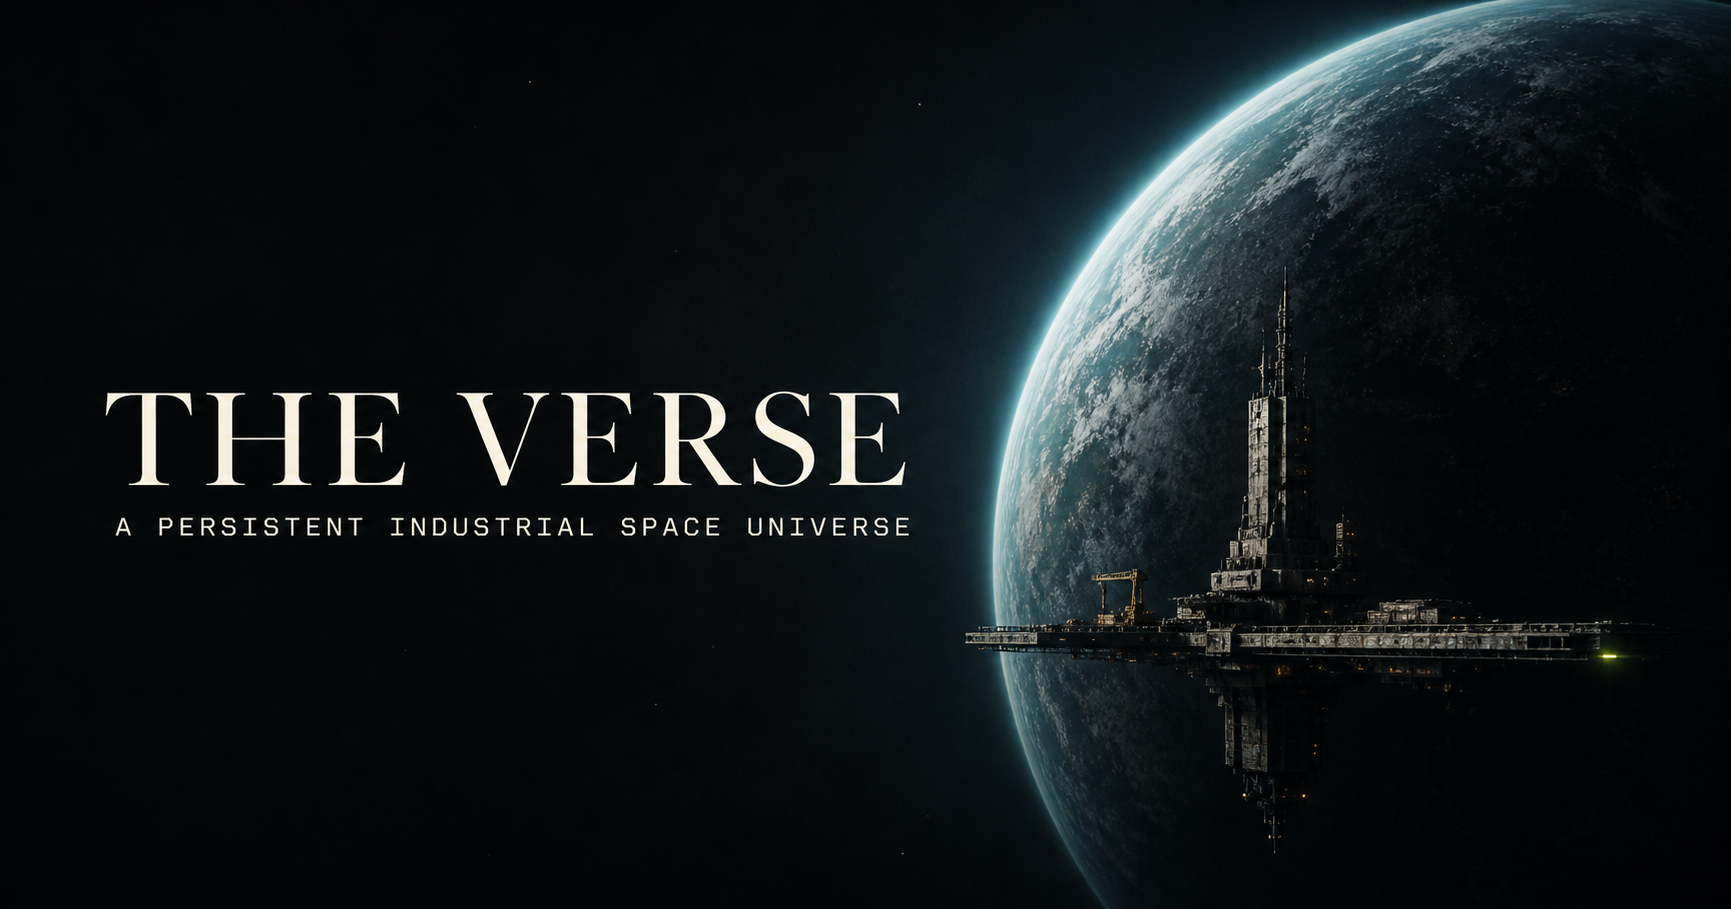
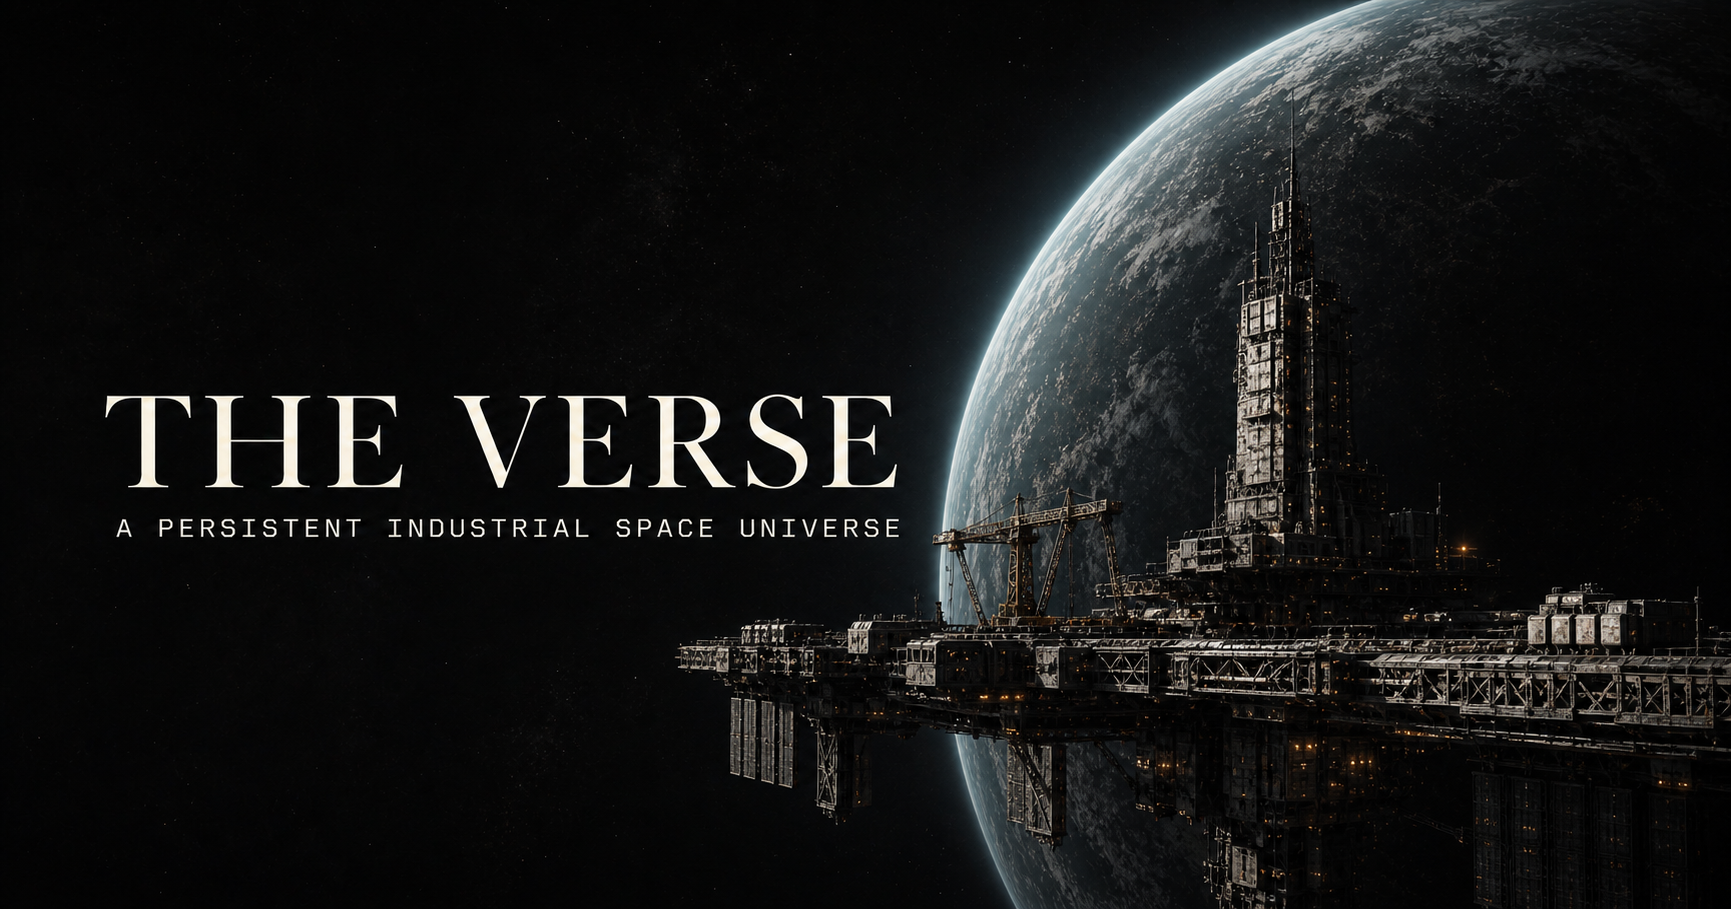
Refine The Verse industrial art direction

diff --git a/app/globals.css b/app/globals.css
@@ -1,15 +1,15 @@
 @import 'tailwindcss';
 
 :root {
-  --ink: #080a09;
-  --ink-soft: #0d1110;
-  --paper: #e7e5dc;
-  --paper-deep: #d8d5c9;
-  --muted: #9d9d94;
-  --line: rgba(231, 229, 220, 0.16);
-  --dark-line: rgba(8, 10, 9, 0.2);
-  --acid: #d6ff55;
-  --cyan: #87fff1;
+  --ink: #090909;
+  --ink-soft: #11100f;
+  --paper: #ddd7ca;
+  --paper-deep: #cac1b1;
+  --muted: #aaa397;
+  --line: rgba(221, 215, 202, 0.17);
+  --dark-line: rgba(9, 9, 9, 0.22);
+  --acid: #c98043;
+  --cyan: #8fa5a8;
 }
 
 * { box-sizing: border-box; }
@@ -53,7 +53,7 @@ button, a { -webkit-tap-highlight-color: transparent; }
   height: 33px;
   flex: 0 0 33px;
   place-items: center;
-  border: 1px solid rgba(214, 255, 85, 0.55);
+  border: 1px solid rgba(201, 128, 67, 0.6);
   transform: rotate(45deg);
 }
 
@@ -95,31 +95,35 @@ nav a:hover, .text-link:hover, .footer-links a:hover { color: var(--acid); }
   position: relative;
   display: grid;
   min-height: max(780px, 100vh);
-  grid-template-columns: minmax(0, 1.05fr) minmax(420px, 0.95fr);
+  grid-template-columns: minmax(0, 1fr);
   align-items: center;
   overflow: hidden;
   padding: 128px clamp(20px, 4vw, 68px) 72px;
-  background:
-    radial-gradient(circle at 70% 40%, rgba(50, 104, 91, 0.12), transparent 32%),
-    linear-gradient(115deg, #0c100f 0%, #060807 56%, #020303 100%);
+  background: #060606;
 }
 .hero::before {
   position: absolute;
   inset: 0;
   content: '';
-  opacity: 0.45;
+  z-index: 1;
   pointer-events: none;
-  background-image:
-    radial-gradient(circle at 17% 23%, #fff 0 0.7px, transparent 0.9px),
-    radial-gradient(circle at 77% 32%, #fff 0 0.6px, transparent 0.8px),
-    radial-gradient(circle at 41% 81%, #fff 0 0.5px, transparent 0.8px),
-    radial-gradient(circle at 88% 72%, #fff 0 0.7px, transparent 0.9px);
-  background-size: 230px 260px, 310px 290px, 280px 320px, 380px 360px;
+  background:
+    linear-gradient(90deg, #080808 0%, rgba(8,8,8,.99) 43%, rgba(8,8,8,.86) 58%, rgba(8,8,8,.18) 84%),
+    linear-gradient(0deg, rgba(5,5,5,.84) 0%, transparent 42%),
+    linear-gradient(180deg, rgba(5,5,5,.55) 0%, transparent 25%);
+}
+.hero-art {
+  position: absolute;
+  inset: 0;
+  background: url('/og.png') right center / cover no-repeat;
+  filter: saturate(.62) contrast(1.06) brightness(.82);
+  transform: scale(1.015);
 }
 .hero-grid {
   position: absolute;
   inset: 0;
-  opacity: 0.12;
+  z-index: 2;
+  opacity: 0.16;
   background-image:
     linear-gradient(rgba(255,255,255,.08) 1px, transparent 1px),
     linear-gradient(90deg, rgba(255,255,255,.08) 1px, transparent 1px);
@@ -138,7 +142,7 @@ nav a:hover, .text-link:hover, .footer-links a:hover { color: var(--acid); }
   letter-spacing: 0.15em;
   text-transform: uppercase;
 }
-.eyebrow span { width: 7px; height: 7px; flex: 0 0 7px; background: var(--acid); box-shadow: 0 0 14px rgba(214,255,85,.8); }
+.eyebrow span { width: 7px; height: 7px; flex: 0 0 7px; background: var(--acid); box-shadow: 0 0 14px rgba(201,128,67,.7); }
 .eyebrow.dark { color: #676960; }
 .hero h1 {
   max-width: 780px;
@@ -193,33 +197,6 @@ nav a:hover, .text-link:hover, .footer-links a:hover { color: var(--acid); }
 .signal-list li { display: flex; gap: 8px; }
 .signal-list span { color: var(--acid); }
 
-.world-visual { position: relative; z-index: 2; width: min(48vw,760px); height: min(48vw,760px); justify-self: end; }
-.planet {
-  position: absolute;
-  right: -11%;
-  top: 8%;
-  width: 76%;
-  aspect-ratio: 1;
-  overflow: hidden;
-  border-radius: 50%;
-  box-shadow: -20px -6px 65px rgba(111,238,218,.14), -90px 20px 120px rgba(5,13,12,.9);
-}
-.planet-surface, .planet-shadow, .planet-atmosphere { position: absolute; inset: 0; border-radius: 50%; }
-.planet-surface { background: url('/khepri-prime.png') center / cover; filter: saturate(.55) brightness(.67) contrast(1.15); transform: scale(1.035); }
-.planet-shadow { background: radial-gradient(circle at 70% 44%, transparent 0 29%, rgba(1,5,5,.12) 44%, #010302 73%); }
-.planet-atmosphere { border: 1px solid rgba(135,255,241,.45); box-shadow: inset 17px 2px 21px rgba(135,255,241,.11), -5px 0 15px rgba(135,255,241,.12); }
-.orbit { position: absolute; border: 1px solid rgba(135,255,241,.18); border-radius: 50%; }
-.orbit::after { position: absolute; top: 50%; left: -3px; width: 6px; height: 6px; border-radius: 50%; background: var(--acid); box-shadow: 0 0 10px rgba(214,255,85,.8); content: ''; }
-.orbit-one { inset: -1%; transform: rotate(-18deg) scaleY(.64); }
-.orbit-two { inset: 12% -11% 5% 5%; transform: rotate(33deg) scaleY(.77); }
-.orbit-two::after { top: 20%; left: auto; right: 6%; width: 4px; height: 4px; background: var(--cyan); }
-.sector-label { position: absolute; z-index: 3; border-left: 1px solid var(--acid); padding: 2px 0 2px 13px; font-family: 'Courier New', monospace; }
-.sector-label span, .sector-label strong { display: block; }
-.sector-label span { color: #81847d; font-size: 7px; letter-spacing: .13em; }
-.sector-label strong { margin-top: 5px; color: #d9d8d0; font-size: 9px; letter-spacing: .12em; }
-.sector-label-top { top: 15%; left: 13%; }
-.sector-label-bottom { right: 5%; bottom: 16%; }
-.coordinate { position: absolute; right: 10%; top: 8%; display: flex; gap: 18px; color: #666a65; font-family: 'Courier New',monospace; font-size: 7px; letter-spacing: .08em; }
 .scroll-cue { position: absolute; z-index: 4; right: clamp(20px,4vw,68px); bottom: 28px; display: flex; align-items: center; gap: 15px; color: #777a73; font: 8px 'Courier New',monospace; letter-spacing: .14em; }
 .scroll-cue i { display: block; width: 44px; height: 1px; background: linear-gradient(90deg,var(--acid) 0 45%,rgba(255,255,255,.2) 45%); }
 
@@ -258,26 +235,26 @@ blockquote { max-width: 960px; margin: 90px 0 0; padding: 0; font-family: Georgi
 .ledger-heading { display: flex; justify-content: space-between; border-bottom: 1px solid var(--dark-line); padding: 13px; color: #62645c; font: 7px 'Courier New',monospace; letter-spacing: .12em; }
 .ledger-row { position: relative; display: grid; grid-template-columns: 1fr auto 8px; align-items: center; gap: 8px; min-height: 46px; border-bottom: 1px solid var(--dark-line); padding: 0 13px; font: 8px 'Courier New',monospace; }
 .ledger-row strong { font-size: 7px; }
-.ledger-row i { width: 5px; height: 5px; background: #687927; }
+.ledger-row i { width: 5px; height: 5px; background: #9a663b; }
 .ledger-seal { display: grid; min-height: 260px; place-content: center; justify-items: center; text-align: center; }
 .ledger-seal > span { display: grid; width: 105px; height: 105px; place-items: center; border: 1px solid #222521; border-radius: 50%; font-family: Georgia,serif; font-size: 72px; }
 .ledger-seal p { margin: 18px 0 0; font: 8px/1.7 'Courier New',monospace; letter-spacing: .18em; }
 
-.systems { padding: clamp(88px,10vw,165px) clamp(20px,6vw,100px); background: #090c0b; }
+.systems { padding: clamp(88px,10vw,165px) clamp(20px,6vw,100px); background: #0b0b0a; }
 .systems-header { display: grid; grid-template-columns: minmax(0,1.4fr) minmax(260px,.6fr); gap: clamp(40px,8vw,140px); max-width: 1360px; margin: 10px auto 90px; padding-left: clamp(0px,7vw,100px); align-items: end; }
 .systems-header .eyebrow { grid-column: 1 / -1; margin-bottom: 0; }
 .systems-header h2 { max-width: 900px; font-size: clamp(54px,7vw,112px); }
 .systems-header > p { margin: 0 0 9px; color: #9a9c94; font-size: 16px; line-height: 1.65; }
 .system-grid { display: grid; grid-template-columns: repeat(3,minmax(0,1fr)); max-width: 1400px; margin: 0 auto; border-top: 1px solid var(--line); border-left: 1px solid var(--line); }
 .system-grid article { min-height: 470px; border-right: 1px solid var(--line); border-bottom: 1px solid var(--line); padding: 22px; background: linear-gradient(160deg,rgba(255,255,255,.018),transparent 55%); transition: background 220ms ease; }
-.system-grid article:hover { background: linear-gradient(160deg,rgba(214,255,85,.06),transparent 60%); }
+.system-grid article:hover { background: linear-gradient(160deg,rgba(201,128,67,.1),transparent 60%); }
 .system-topline { display: flex; justify-content: space-between; color: #71756e; font: 8px 'Courier New',monospace; letter-spacing: .12em; }
 .system-topline span:first-child { color: var(--acid); }
-.system-glyph { position: relative; width: 118px; height: 118px; margin: 66px 0 54px; border: 1px solid rgba(135,255,241,.23); border-radius: 50%; }
+.system-glyph { position: relative; width: 118px; height: 118px; margin: 66px 0 54px; border: 1px solid rgba(143,165,168,.3); border-radius: 50%; }
 .system-glyph::before, .system-glyph::after, .system-glyph i { position: absolute; content: ''; }
-.system-glyph::before { inset: 21px; border: 1px solid rgba(214,255,85,.43); transform: rotate(45deg); }
+.system-glyph::before { inset: 21px; border: 1px solid rgba(201,128,67,.5); transform: rotate(45deg); }
 .system-glyph::after { top: 58px; left: -10px; width: 138px; height: 1px; background: linear-gradient(90deg,transparent,var(--cyan),transparent); }
-.system-glyph i { top: 53px; left: 53px; width: 10px; height: 10px; background: var(--acid); box-shadow: 0 0 22px rgba(214,255,85,.65); transform: rotate(45deg); }
+.system-glyph i { top: 53px; left: 53px; width: 10px; height: 10px; background: var(--acid); box-shadow: 0 0 22px rgba(201,128,67,.58); transform: rotate(45deg); }
 .glyph-02::before { inset: 13px 29px; border-radius: 50%; transform: rotate(30deg); }
 .glyph-03 { border-radius: 0; transform: rotate(45deg) scale(.82); }
 .glyph-03::before { transform: none; }
@@ -295,17 +272,17 @@ blockquote { max-width: 960px; margin: 90px 0 0; padding: 0; font-family: Georgi
 .field-header h2 { max-width: 900px; font-size: clamp(52px,6.6vw,108px); }
 .field-header > p { margin: 0 0 7px; color: #55574f; font-size: 15px; line-height: 1.65; }
 .sector-console { display: grid; grid-template-columns: minmax(0,1.25fr) minmax(340px,.75fr); max-width: 1400px; margin: 0 auto; border: 1px solid var(--dark-line); }
-.console-map { position: relative; min-height: 700px; overflow: hidden; background: #0a0d0c; }
-.map-grid { position: absolute; inset: 0; opacity: .35; background-image: linear-gradient(rgba(135,255,241,.15) 1px,transparent 1px),linear-gradient(90deg,rgba(135,255,241,.15) 1px,transparent 1px); background-size: 48px 48px; mask-image: radial-gradient(circle at center,black,transparent 77%); }
-.map-planet { position: absolute; right: -22%; bottom: -46%; width: 78%; aspect-ratio: 1; border: 1px solid rgba(135,255,241,.45); border-radius: 50%; background: radial-gradient(circle at 32% 26%,rgba(67,116,107,.7),#141c1a 33%,#020303 70%); box-shadow: -22px -18px 40px rgba(135,255,241,.08); }
-.map-object { position: absolute; display: grid; place-items: center; border: 1px solid rgba(214,255,85,.45); transform: rotate(45deg); }
+.console-map { position: relative; min-height: 700px; overflow: hidden; background: #0b0b0a; }
+.map-grid { position: absolute; inset: 0; opacity: .35; background-image: linear-gradient(rgba(143,165,168,.15) 1px,transparent 1px),linear-gradient(90deg,rgba(143,165,168,.15) 1px,transparent 1px); background-size: 48px 48px; mask-image: radial-gradient(circle at center,black,transparent 77%); }
+.map-planet { position: absolute; right: -22%; bottom: -46%; width: 78%; aspect-ratio: 1; border: 1px solid rgba(143,165,168,.48); border-radius: 50%; background: radial-gradient(circle at 32% 26%,rgba(76,94,99,.8),#171a1a 33%,#020303 70%); box-shadow: -22px -18px 40px rgba(143,165,168,.09); }
+.map-object { position: absolute; display: grid; place-items: center; border: 1px solid rgba(201,128,67,.5); transform: rotate(45deg); }
 .map-object::before, .map-object::after, .map-object i { position: absolute; content: ''; }
-.map-object::before { inset: 7px; border: 1px solid rgba(214,255,85,.35); }
-.map-object::after { width: 1px; height: 82px; background: linear-gradient(transparent,rgba(214,255,85,.55),transparent); }
-.map-object i { width: 82px; height: 1px; background: linear-gradient(90deg,transparent,rgba(214,255,85,.55),transparent); }
+.map-object::before { inset: 7px; border: 1px solid rgba(201,128,67,.38); }
+.map-object::after { width: 1px; height: 82px; background: linear-gradient(transparent,rgba(201,128,67,.62),transparent); }
+.map-object i { width: 82px; height: 1px; background: linear-gradient(90deg,transparent,rgba(201,128,67,.62),transparent); }
 .asteroid { top: 24%; left: 22%; width: 70px; height: 70px; border-radius: 42% 55% 38% 60%; }
 .skiff { top: 52%; left: 47%; width: 36px; height: 36px; }
-.platform { top: 34%; right: 23%; width: 48px; height: 48px; border-color: rgba(135,255,241,.6); }
+.platform { top: 34%; right: 23%; width: 48px; height: 48px; border-color: rgba(143,165,168,.64); }
 .map-label { position: absolute; color: #d5d5cc; font: 8px/1.55 'Courier New',monospace; letter-spacing: .08em; }
 .map-label i { color: #6c7169; font-style: normal; }
 .label-asteroid { top: 18%; left: 30%; }
@@ -314,16 +291,16 @@ blockquote { max-width: 960px; margin: 90px 0 0; padding: 0; font-family: Georgi
 .label-planet { right: 8%; bottom: 8%; }
 .console-data { padding: 26px; background: #e2e0d6; }
 .console-status { display: flex; align-items: center; gap: 8px; margin-bottom: 34px; color: #4f514a; font: 8px 'Courier New',monospace; letter-spacing: .13em; }
-.console-status span { width: 6px; height: 6px; border-radius: 50%; background: #7b942b; box-shadow: 0 0 8px rgba(101,123,31,.5); }
+.console-status span { width: 6px; height: 6px; border-radius: 50%; background: #c2884b; box-shadow: 0 0 8px rgba(194,136,75,.5); }
 .mission-step { display: grid; grid-template-columns: 32px 1fr 20px; gap: 12px; min-height: 105px; align-items: start; border-top: 1px solid var(--dark-line); padding: 20px 0; }
 .mission-step > span { color: #75776f; font: 9px 'Courier New',monospace; }
 .mission-step strong { font: 700 9px 'Courier New',monospace; letter-spacing: .12em; }
 .mission-step p { margin: 10px 0 0; color: #55574f; font-size: 12px; line-height: 1.5; }
-.mission-step > i { color: #73872b; font-style: normal; }
+.mission-step > i { color: #a86d3a; font-style: normal; }
 .console-data > a { display: flex; justify-content: space-between; margin-top: 22px; background: var(--ink); color: var(--paper); padding: 19px; font: 700 9px 'Courier New',monospace; letter-spacing: .1em; text-transform: uppercase; }
 .console-data > a span { color: var(--acid); }
 
-.open-framework { display: grid; grid-template-columns: 1.2fr .8fr; gap: 60px; padding: clamp(80px,9vw,150px) clamp(20px,6vw,100px); background: #101412; border-block: 1px solid var(--line); }
+.open-framework { display: grid; grid-template-columns: 1.2fr .8fr; gap: 60px; padding: clamp(80px,9vw,150px) clamp(20px,6vw,100px); background: #141312; border-block: 1px solid var(--line); }
 .open-framework > div:first-child { padding-left: clamp(0px,7vw,100px); }
 .open-framework h2 { max-width: 820px; font-size: clamp(48px,6vw,94px); }
 .framework-principles { display: grid; grid-template-columns: repeat(2,minmax(0,1fr)); align-content: end; border-top: 1px solid var(--line); border-left: 1px solid var(--line); }
@@ -331,16 +308,16 @@ blockquote { max-width: 960px; margin: 90px 0 0; padding: 0; font-family: Georgi
 .framework-principles i { display: block; margin-bottom: 15px; color: var(--acid); font-style: normal; }
 .framework-note { grid-column: 2; margin: 0; color: #898d84; font-size: 12px; line-height: 1.6; }
 
-.contribute { padding: clamp(88px,10vw,165px) clamp(20px,6vw,100px) 0; background: var(--acid); color: var(--ink); }
+.contribute { padding: clamp(88px,10vw,165px) clamp(20px,6vw,100px) 0; background: #b56e3f; color: var(--ink); }
 .contribute-header { max-width: 1200px; margin: 15px auto 80px; padding-left: clamp(0px,7vw,100px); }
 .contribute-header h2 { max-width: 1050px; font-size: clamp(54px,7.5vw,122px); }
 .contribute-header > p:last-child { max-width: 720px; margin: 42px 0 0 auto; font-size: 17px; line-height: 1.6; }
 .role-grid { display: grid; grid-template-columns: repeat(4,minmax(0,1fr)); max-width: 1400px; margin: 0 auto; border-top: 1px solid rgba(8,10,9,.35); border-left: 1px solid rgba(8,10,9,.35); }
 .role-grid article { min-height: 330px; border-right: 1px solid rgba(8,10,9,.35); border-bottom: 1px solid rgba(8,10,9,.35); padding: 20px; }
-.role-grid article > div { display: flex; justify-content: space-between; color: #4e5b1b; font: 8px 'Courier New',monospace; }
+.role-grid article > div { display: flex; justify-content: space-between; color: #5e3b27; font: 8px 'Courier New',monospace; }
 .role-grid code { color: var(--ink); font: 8px 'Courier New',monospace; letter-spacing: .1em; }
 .role-grid h3 { margin: 66px 0 18px; font-family: Georgia,'Times New Roman',serif; font-size: clamp(25px,2vw,34px); font-weight: 400; letter-spacing: -.035em; }
-.role-grid p { min-height: 65px; margin: 0; color: #354014; font-size: 13px; line-height: 1.55; }
+.role-grid p { min-height: 65px; margin: 0; color: #35261e; font-size: 13px; line-height: 1.55; }
 .role-grid a { display: flex; justify-content: space-between; margin-top: 42px; border-top: 1px solid rgba(8,10,9,.35); padding-top: 14px; font: 700 8px 'Courier New',monospace; letter-spacing: .09em; text-transform: uppercase; }
 .contribute-cta { display: grid; grid-template-columns: 1.15fr .85fr; gap: 80px; max-width: 1400px; margin: 110px auto 0; background: var(--ink); color: var(--paper); padding: clamp(36px,5vw,80px); }
 .cta-kicker { color: var(--acid); font: 8px 'Courier New',monospace; letter-spacing: .12em; }
@@ -348,7 +325,7 @@ blockquote { max-width: 960px; margin: 90px 0 0; padding: 0; font-family: Georgi
 .cta-actions { display: flex; flex-direction: column; align-self: end; gap: 12px; }
 .cta-actions a { display: flex; justify-content: space-between; border-top: 1px solid var(--line); padding: 18px 0; color: #b6b8b0; font: 8px 'Courier New',monospace; letter-spacing: .1em; text-transform: uppercase; }
 .cta-actions .cta-primary { border: 0; background: var(--paper); color: var(--ink); padding: 20px; font-weight: 700; }
-.cta-actions .cta-primary span { color: #61731e; }
+.cta-actions .cta-primary span { color: #9a6535; }
 
 footer { background: var(--ink); padding: 110px clamp(20px,6vw,100px) 25px; }
 .footer-main { display: grid; grid-template-columns: 1fr 1fr 1fr; gap: 50px; align-items: start; max-width: 1400px; margin: 0 auto 100px; }
@@ -360,7 +337,6 @@ footer { background: var(--ink); padding: 110px clamp(20px,6vw,100px) 25px; }
   .site-header { grid-template-columns: 1fr auto; }
   nav { display: none; }
   .hero { grid-template-columns: 1fr; }
-  .world-visual { position: absolute; right: -24vw; top: 22%; width: 72vw; height: 72vw; opacity: .48; }
   .hero-copy { max-width: 760px; }
   .manifesto { grid-template-columns: 65px minmax(0,1fr); }
   .memory-ledger { display: none; }
@@ -403,7 +379,7 @@ footer { background: var(--ink); padding: 110px clamp(20px,6vw,100px) 25px; }
   .hero-intro { max-width: 94%; font-size: 15px; }
   .hero-actions { align-items: flex-start; flex-direction: column; gap: 12px; }
   .signal-list { flex-direction: column; gap: 8px; margin-top: 38px; }
-  .world-visual { right: -48vw; top: 31%; width: 105vw; height: 105vw; }
+  .hero-art { background-position: 68% center; filter: saturate(.55) contrast(1.04) brightness(.68); }
   .scroll-cue { display: none; }
   .manifesto-main h2, .systems-header h2, .field-header h2, .contribute-header h2 { font-size: 52px; }
   .manifesto-copy { gap: 24px; }
@@ -422,10 +398,6 @@ footer { background: var(--ink); padding: 110px clamp(20px,6vw,100px) 25px; }
 }
 
 @media (prefers-reduced-motion: no-preference) {
-  .planet-surface { animation: planet-drift 34s ease-in-out infinite alternate; }
-  .orbit-one { animation: orbit-drift 24s linear infinite; }
   .transmission div { animation: transmission-slide 22s ease-in-out infinite alternate; }
 }
-@keyframes planet-drift { to { transform: scale(1.09) translateX(-2%); } }
-@keyframes orbit-drift { to { transform: rotate(342deg) scaleY(.64); } }
 @keyframes transmission-slide { to { transform: translateX(-4%); } }

diff --git a/app/page.tsx b/app/page.tsx
@@ -85,6 +85,7 @@ export default function Home() {
       </header>
 
       <section className="hero" id="top">
+        <div className="hero-art" aria-hidden="true" />
         <div className="hero-grid" aria-hidden="true" />
         <div className="hero-copy">
           <p className="eyebrow"><span /> Persistent industrial space universe</p>
@@ -107,25 +108,6 @@ export default function Home() {
             <li><span>02</span> Physical industry</li>
             <li><span>03</span> Humans + agents</li>
           </ul>
-        </div>
-
-        <div className="world-visual" aria-label="Khepri Prime orbital sector">
-          <div className="orbit orbit-one" aria-hidden="true" />
-          <div className="orbit orbit-two" aria-hidden="true" />
-          <div className="planet" aria-hidden="true">
-            <div className="planet-surface" />
-            <div className="planet-shadow" />
-            <div className="planet-atmosphere" />
-          </div>
-          <div className="sector-label sector-label-top">
-            <span>FIXED BODY / 01</span><strong>KHEPRI PRIME</strong>
-          </div>
-          <div className="sector-label sector-label-bottom">
-            <span>LOCAL SIGNAL</span><strong>ORBITAL INDUSTRY ACTIVE</strong>
-          </div>
-          <div className="coordinate" aria-hidden="true">
-            <span>43.71° N</span><span>21.09° E</span>
-          </div>
         </div>
 
         <a className="scroll-cue" href="#manifesto">
